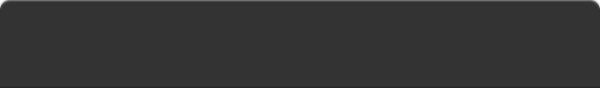
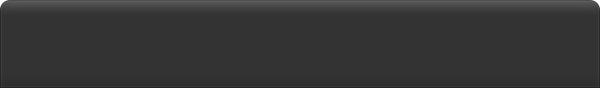
イベント一覧の画像を差し替え

Changed region(s): [[0.0, 0.0, 1.0, 0.0682]]

diff --git a/CalendarCalc/viewControllers/EventViewController.m b/CalendarCalc/viewControllers/EventViewController.m
@@ -87,6 +87,7 @@
 {
     [super viewDidLoad];
 
+    [self.titlebar.topItem setTitleView:[self topButton]];
     [self.titlebar setBackgroundImage:[UIImage imageNamed:@"event_header"]
                         forBarMetrics:UIBarMetricsDefault];
     [self.tableView setUserInteractionEnabled:NO];
